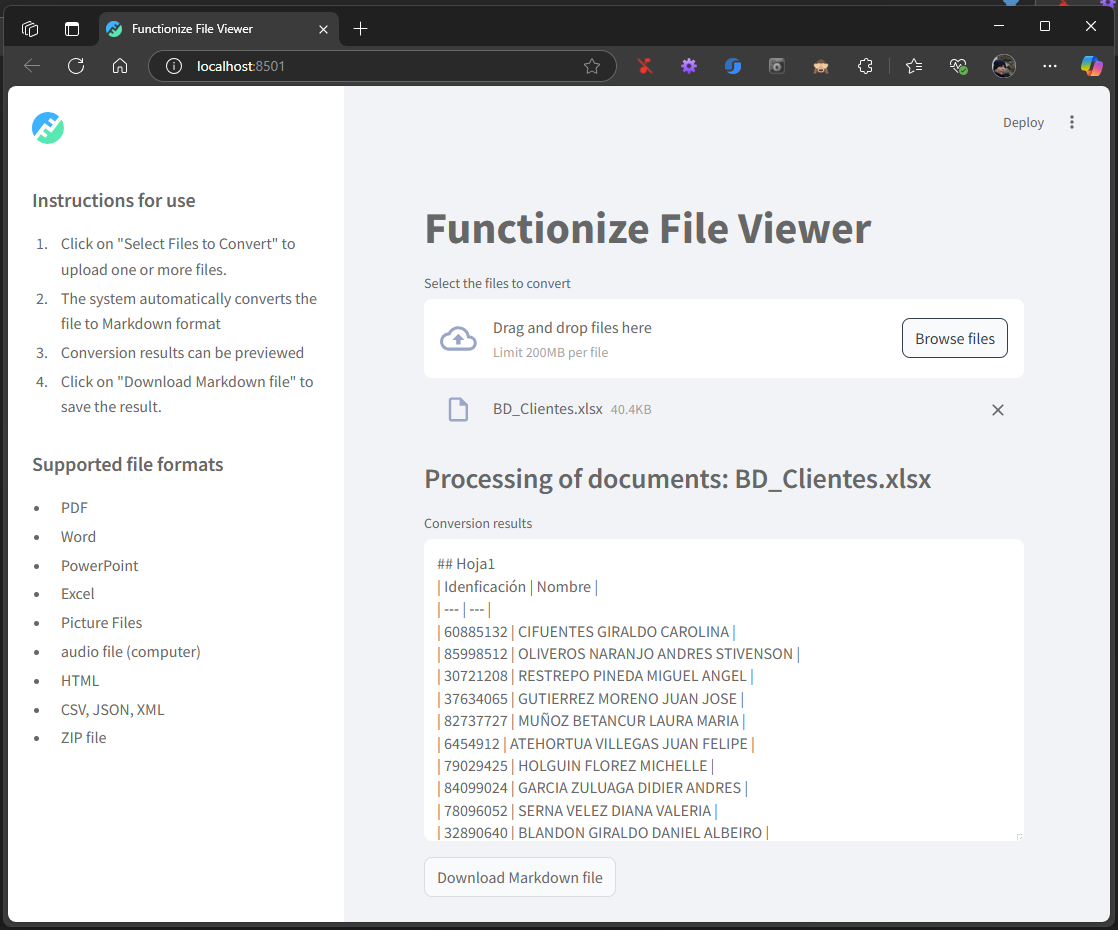
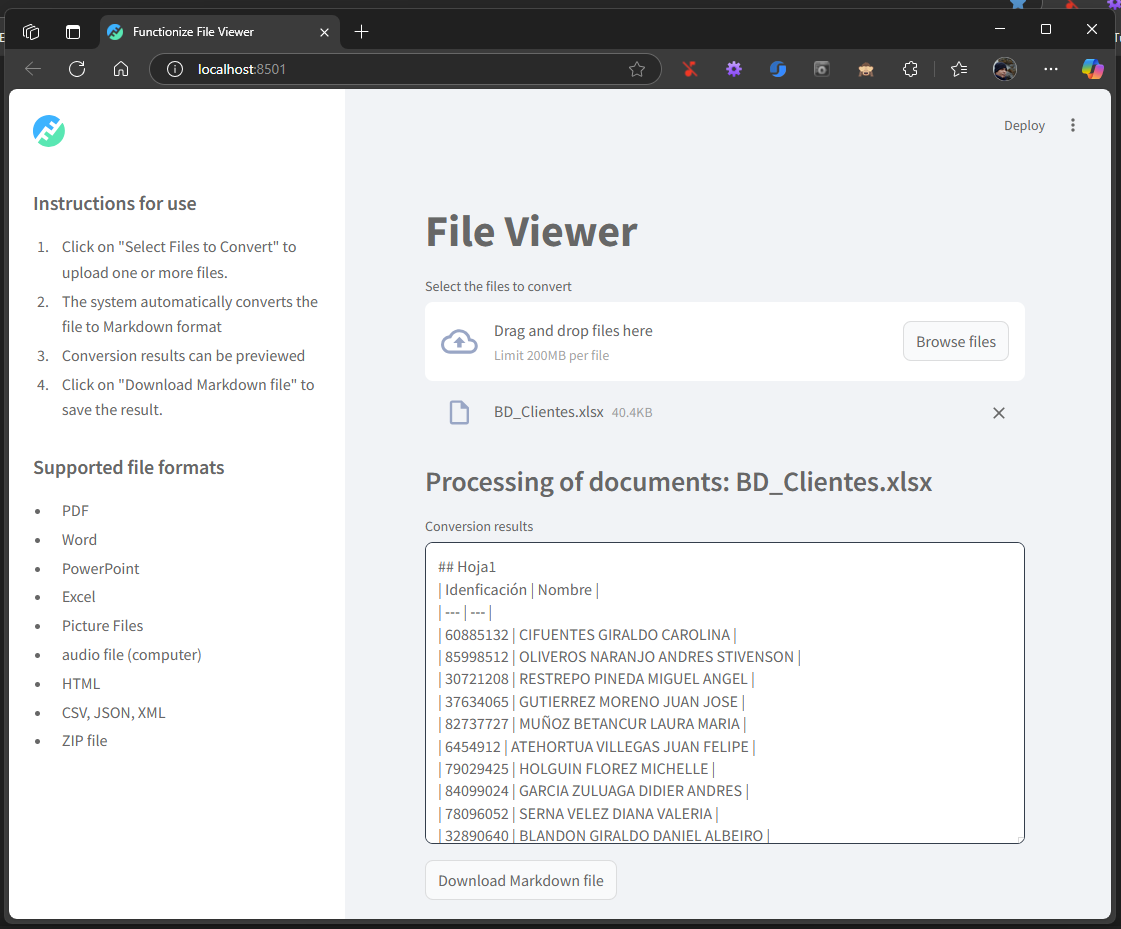
Updated the app file

diff --git a/app.py b/app.py
@@ -18,9 +18,7 @@ st.logo(
     icon_image=None
 )
 
-
-
-st.title("Functionize File Viewer")
+st.title("File Viewer")
 
 # Initialize MarkItDown without the enable_plugins parameter
 md = MarkItDown()
